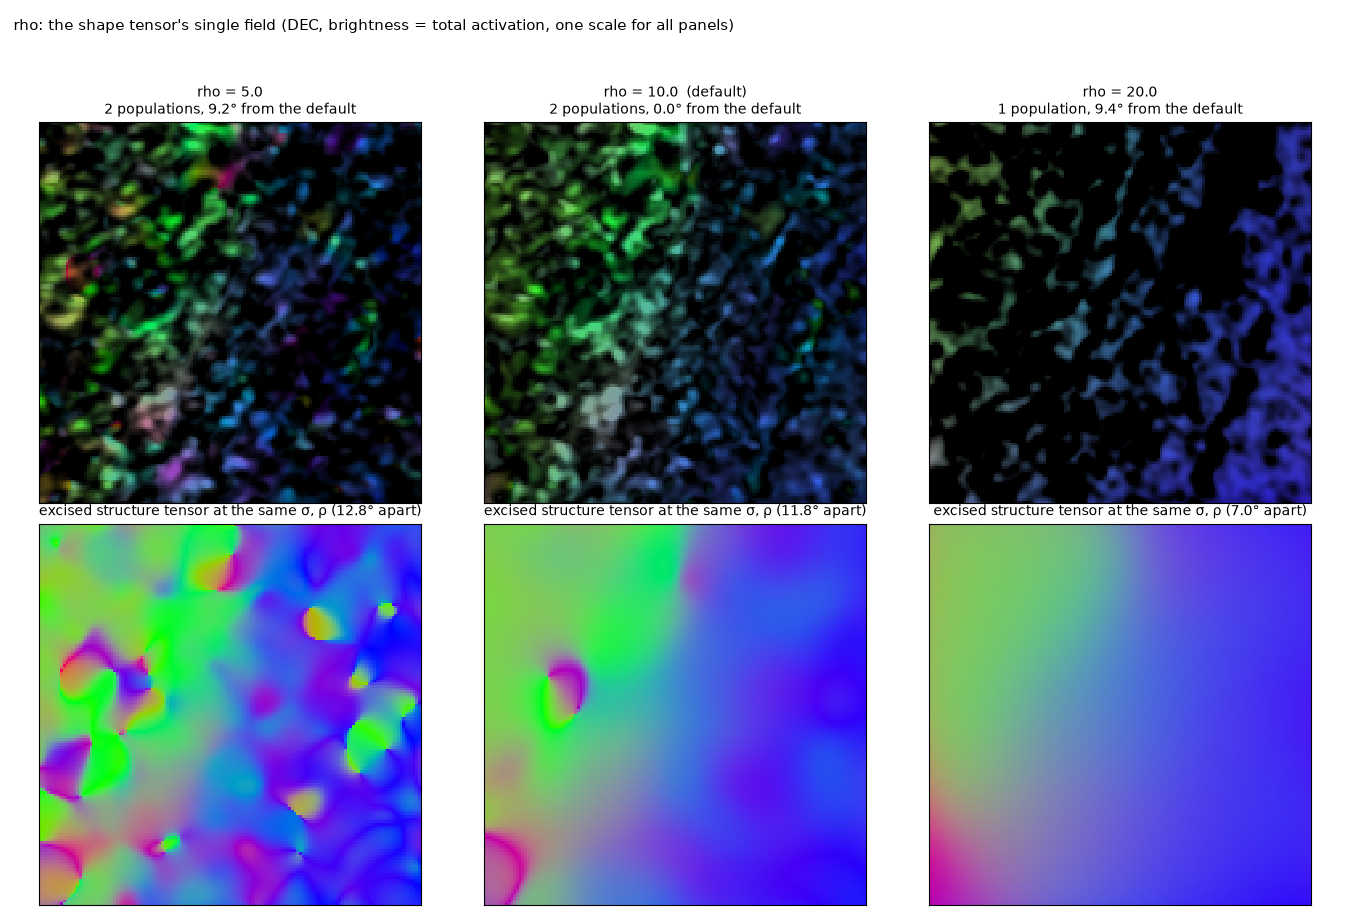
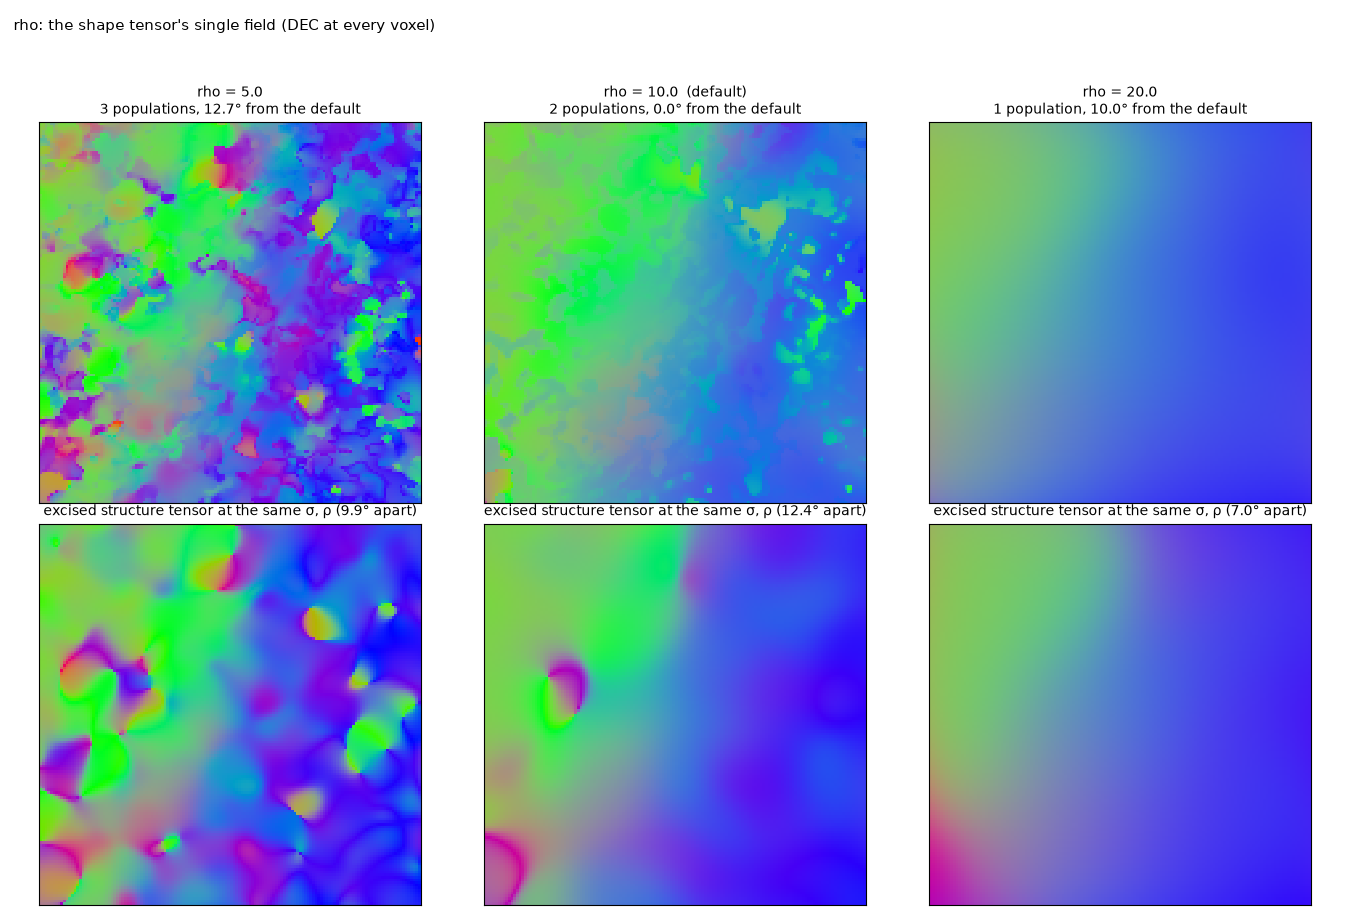
Parameter strips in plain DEC, with the page's numbers from the rerun

diff --git a/docs/parameters.md b/docs/parameters.md
@@ -14,23 +14,24 @@ linear code) and the teacher (the excised structure tensor at the output `rho`).
 shape is read means resampling the image; see [the pipeline](pipeline/index.md).
 
 What the strips show overall: the field's *direction* is set by the scales and by which populations are found, and
-by nothing else. The weight floor, the tissue mask and the sub-window size leave it unchanged; a different
-population count moves it by 8–15° at the median on this low-coherence block, where the two candidate pairs of
-populations are both plausible readings of the tissue.
+by nothing else. The weight floor and the sub-window size leave it unchanged; a different population count or a
+different pair of populations moves it by 9–16° at the median on this low-coherence block, where several readings
+of the tissue are plausible. The readout's fit is not bit-reproducible on the GPU, so the exact populations a run
+finds, and these numbers, vary a little between runs.
 
 ## The scales: `rho` and `sigma`
 
 `rho` is the integration window of every tensor: the teacher, each population's tensor and the baseline structure
 tensor. It is the one scale a user should normally touch. Smaller windows follow the fibres more closely and carry
-more noise (the structure tensor's swirl defects at ρ 5); larger ones smooth the field and blur crossings and bends
-further. The bottom row is the excised structure tensor at the same `rho`: the two fields move together, which is
-what makes the comparison like for like. At ρ 20 the teacher is smoother than the fascicles of this block and one
-population is found.
+more noise (the structure tensor's swirl defects at ρ 5, three populations found); larger ones smooth the field and
+blur crossings and bends further. The bottom row is the excised structure tensor at the same `rho`: the two fields
+move together, which is what makes the comparison like for like. At ρ 20 the teacher is smoother than the fascicles
+of this block and one population is found.
 
 ![rho](img/params_rho.png)
 
 `sigma` is the derivative scale. At half a voxel the gradients see the noise and the teacher, and so the field,
-change character (23° from the default); at two voxels the fibre texture (period about 5 voxels at 20 µm) is
+change character (24° from the default); at two voxels the fibre texture (period about 5 voxels at 20 µm) is
 blurred before it is differentiated, every tensor loses contrast and one population is found.
 
 ![sigma](img/params_sigma.png)
@@ -41,7 +42,7 @@ The features are box-averaged over `smooth`³ voxels before the readers are fitt
 thresholded for the tissue mask. The activation of a rectified filter oscillates with the phase of the fibre
 texture; a 3³ average (the default) integrates it. Without it the activations spike voxel by voxel, the null is
 lower and the second population is not confirmed; a 5³ box blurs the layers at the scale of the box and leaves the
-field within 7° of the default.
+field within 3° of the default.
 
 ![smooth](img/params_smooth.png)
 
@@ -52,14 +53,15 @@ single field; the bottom row is the second vector of the multi-vector field with
 black where only one population was found.
 
 `nmax` caps the number of populations. With one population the single field is the excised structure tensor
-weighted by that population's activation. With two the block has two readings that differ by 8°: the default
-(candidates from the 64³ sub-windows, up to three confirmed) and the pair found with `nmax` 2, `min_sep_deg` 15 or
-`window` 0, which are the same pair.
+weighted by that population's activation (15° from the default here). With two the block has two readings that
+differ by 9°: the default (candidates from the 64³ sub-windows, up to three confirmed) and the pair found with
+`nmax` 2 or `window` 0, which is the same pair.
 
 ![nmax](img/params_nmax.png)
 
 `min_sep_deg` is the angle below which two candidate populations are the same one. Smaller values let the
-shoulders of one dispersed population count as two; at 40° the two populations of this block are merged into one.
+shoulders of one dispersed population count as two (at 15° a different pair is found, 16° from the default); at
+40° the two populations of this block are merged into one.
 
 ![min_sep_deg](img/params_min_sep_deg.png)
 
@@ -69,12 +71,11 @@ population confined to one region of the block is found through its sub-window; 
 ![window](img/params_window.png)
 
 `iterations` is the number of joint refinements of the populations from their own layers after the candidates are
-confirmed one by one. One pass leaves the field within 4° of the default; four passes let the weaker population be
-absorbed by the stronger.
+confirmed one by one. One pass or four leave the field within 4–5° of the default on this block.
 
 ![iterations](img/params_iterations.png)
 
-## No effect on the field: `tensor_floor`, `tissue`
+## Little or no effect on the field: `tensor_floor`, `tissue`
 
 `tensor_floor` is the weight floor of every population tensor, as a fraction of the null. It keeps a population's
 tensor defined where its activation is zero and is not a lever on the field (0.3° between 0 and 0.1; also
@@ -84,6 +85,6 @@ tensor defined where its activation is zero and is not a lever on the field (0.3
 
 `tissue` is the optional mask of the voxels to read (here the grey level above the air/tissue threshold). It
 chooses where the teacher is sampled and where the excision looks for steps; it is never applied to the vectors,
-and on a block that is all tissue it changes the field by 3°.
+and on a block that is all tissue it changes the field by 4°.
 
 ![tissue](img/params_tissue.png)
